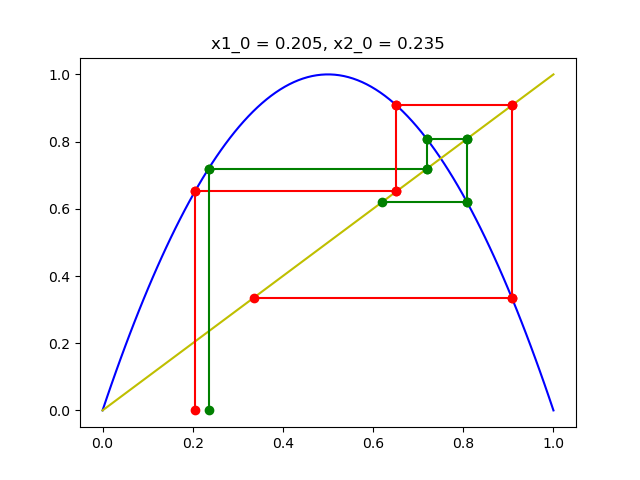
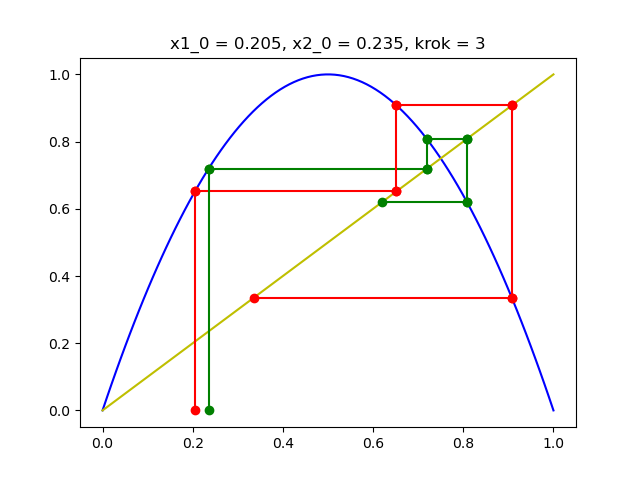
dopisanie kroku

Changed region(s): [[0.2812, 0.0625, 0.7188, 0.125]]

diff --git a/lab5-determistic-chaos.py b/lab5-determistic-chaos.py
@@ -28,7 +28,7 @@ fargx = np.linspace(0, 1, 100)
 fvalues = fx(fargx)
 
 plt.figure()
-plt.title(f"x1_0 = {x1s}, x2_0 = {x2s}")
+plt.title(f"x1_0 = {x1s}, x2_0 = {x2s}, krok = {step}")
 plt.plot(fargx, fvalues, 'b-')
 plt.plot(fargx, fargx, 'y-')
 
